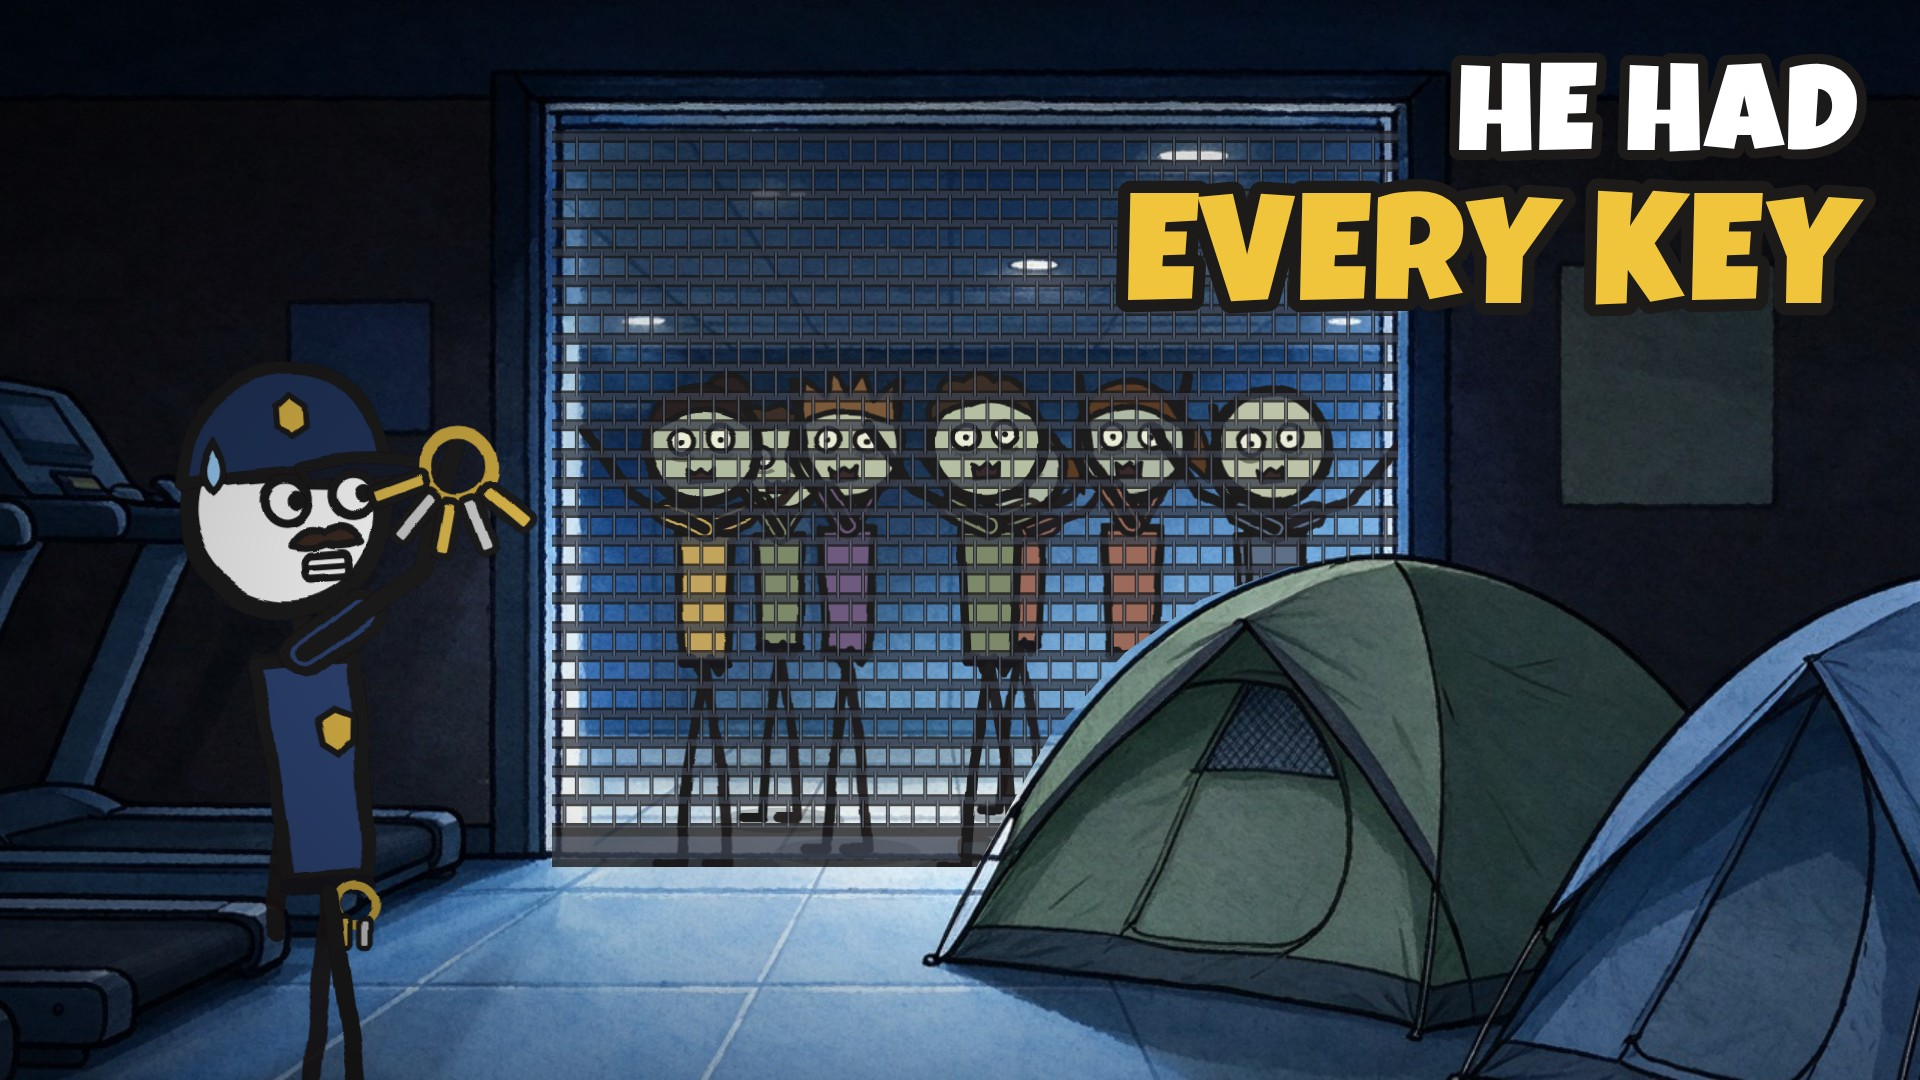
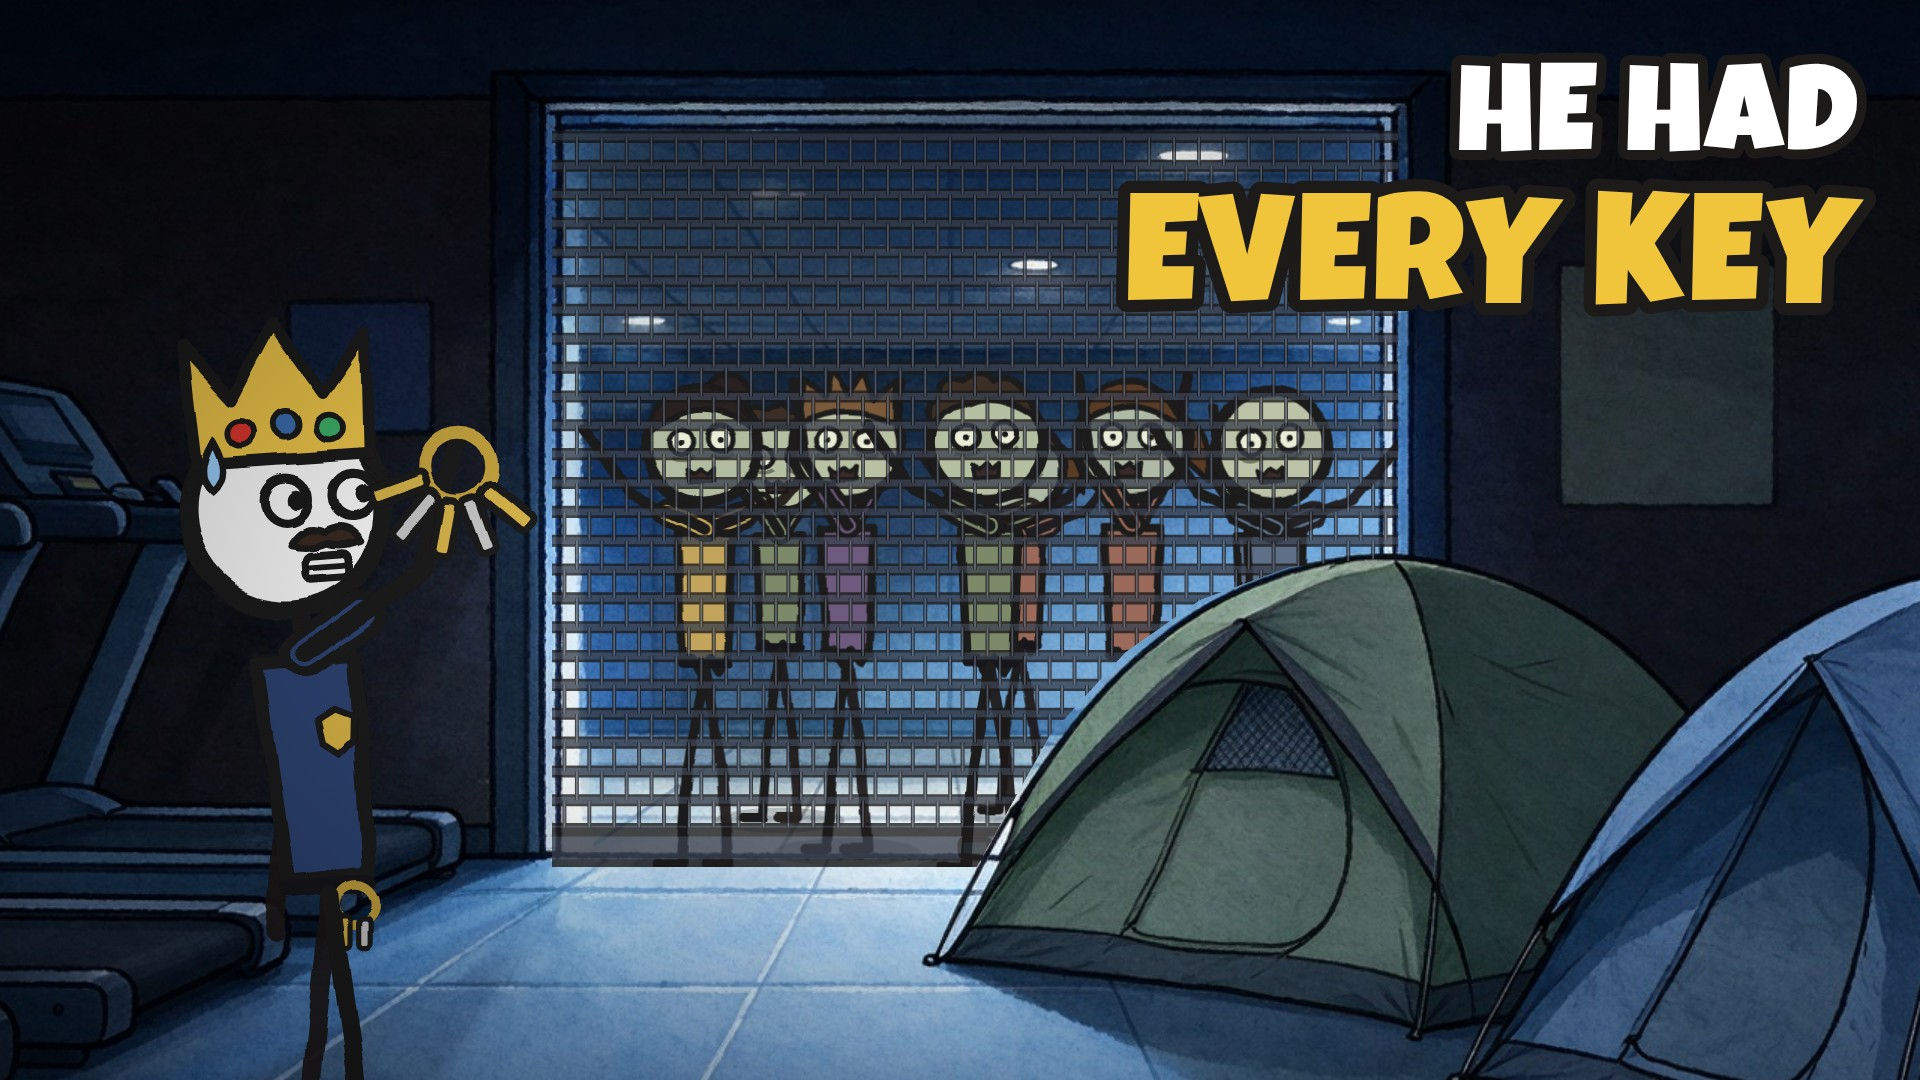
Update README, upload details and thumbnail for the v2 pilot
- README: the v2 story, what changed after the first test, the directed
  Gemini voice pipeline and its checks, costs for both versions
- publish/mall-pilot-upload.md: new title options, description and chapters
- thumbnail: Danny wears Lily's paper crown

Claude-Session: https://claude.ai/code/session_01L5ympxsUwkNVD2DNao6gpG

Changed region(s): [[0.0938, 0.3056, 0.2188, 0.4583]]

diff --git a/src/mall/Thumb.tsx b/src/mall/Thumb.tsx
@@ -3,7 +3,7 @@ import {AbsoluteFill} from 'remotion';
 import {useFont} from '../thumbs/Thumbs';
 import {Screen, Txt, W} from './Overlays';
 import {Beyond, Crowd, Guard, HoldGate, Scene} from './shots';
-import {POSES} from './Stick';
+import {LOOKS, POSES} from './Stick';
 
 // YouTube thumbnail: the guard with his keys, faces at the gate behind him.
 export const MallThumb: React.FC = () => {
@@ -33,6 +33,7 @@ export const MallThumb: React.FC = () => {
           x={1000}
           y={1185}
           h={575}
+          look={LOOKS.dannyCrown}
           face={1}
           pose={{...POSES.holdUp, lean: -6, head: -4, armN: [125, 165]}}
           propN="keys"

diff --git a/README.md b/README.md
@@ -69,18 +69,23 @@ The pigeon is a puppet. Its head, neck and body are cut from one AI picture, and
 
 ![Four frames from the mall pilot: the night guard walking the empty mall with his flashlight; a security camera showing a crowd coming up the garage ramp; the sporting goods store behind its steel gate with "ONE WAY IN"; zombie faces pressed against the gate](docs/mall-storyboard.jpg)
 
-This is a test of a second format: a long stick-figure survival story told in still pictures, like the "30 days locked inside…" videos. A new picture lands every 2–3 seconds, cut on the exact word, under a first-person voice-over. The pilot is the 2½-minute cold open of a longer episode, in 16:9 at 1080p.
+This is a test of a second format: a long stick-figure survival story told in still pictures, like the "30 days locked inside…" videos. A new picture lands every 2–3 seconds, cut on the exact word, under a first-person voice-over. The pilot is the 4½-minute opening of a longer episode, in 16:9 at 1080p.
 
-**The story:** a night security guard walks the same loop around Maplecrest Mall (a made-up mall) every night with a flashlight, a radio and a ring of 42 keys, one for every store. At 1:40 a.m. his partner Marcus radios about a man walking strangely up the garage ramp, and then goes quiet. The cameras show the crowd heading for the food court's glass doors. The guard has a few minutes to pick one store to lock himself in. He weighs the pharmacy, the food court and the department store, and picks the sporting goods store because it has only one way in. Then Marcus presses his face against the gate, still wearing his radio, and a stranger's voice comes over both radios.
+**The story (v2):** "The dead man pressing his face against my gate used to be my best friend." The cold open starts at the worst moment, then rewinds an hour. Danny Ruiz is the night guard at Maplecrest Mall (a made-up mall). He works nights so he's home when his daughter Lily gets off the school bus, and she calls him the king of the mall because he has 42 keys, one for every store. At 1 a.m. his friend Marcus, a 22-year-old nursing student, usually radios with a terrible joke. Tonight Marcus whispers about a man walking wrong up the garage ramp, then goes silent. The glass food court won't hold, and Danny has four minutes to pick one store to lock himself in. He picks the sporting goods store, then Marcus's radio and his own give him away. It ends on "hour 1 of 720" and a woman on the radio who "would turn out to be the most dangerous person in it."
+
+**What changed after the first test** (feedback: more hooks, a better voice, a lead people connect with):
+- **Script:** the cold open, a re-hook every 20–30 seconds, a visible four-minute countdown, and a lead with a life (a daughter, a friend worth losing, a dry sense of humor). The first script is kept as `images/mall/script-v1.md`.
+- **Voice:** directed Gemini voices (`voice_gemini.py`) replace the flat local voice. See below.
+- **New pictures:** a sunny bus-stop background, Lily, Danny at home, a paper crown, Lily's crayon drawing, the series title and end cards, a name tag, Black Friday shoppers against the same lot full of zombies, and a sepia memory insert.
 
 **How it differs from the Shorts:**
-- **Backgrounds:** 9 night scenes from Seedream 5 Flash on Kie.ai (2K, 3.24 credits each, all used on the first try). The prompts are in `images/mall/prompts.json`.
-- **Characters drawn in code:** there are no AI pictures of characters. The stick figures, zombies, props, the mall map, labels, the security-camera look and the stores' steel gates are all drawn in code (`src/mall/`). So the guard looks identical in every shot, and a new shot costs nothing.
-- **Shots cued by words:** `src/mall/shots.tsx` lists 70 shots, and each starts on a phrase from the narration ("cut just before *Glass doors*"). `timing.ts` turns the phrases into times using the word timings, so a new voice-over re-times every cut by itself.
-- **Voice:** ElevenLabs on Kie.ai timed out on every request the night it was made. The pilot therefore uses [Kokoro](https://github.com/hexgrad/kokoro), an open-source voice model that runs locally for free, with three voices: the narrator, Marcus and the woman on the radio. The radio lines go through a walkie-talkie filter.
-- **Sound:** 13 effects and ambience loops from Suno sounds on Kie.ai (2.5 credits per request, two takes each), mixed in `src/mall/Sfx.tsx`.
+- **Backgrounds:** 10 scenes from Seedream 5 Flash on Kie.ai (2K, 3.24 credits each, all used on the first try). The prompts are in `images/mall/prompts.json`.
+- **Characters drawn in code:** there are no AI pictures of characters. The stick figures (with front and back views, a child version, crown, backpack and book), zombies, props, the mall map, labels, cards, the security-camera look and the stores' steel gates are all drawn in code (`src/mall/`). So Danny looks identical in every shot, and a new shot costs nothing.
+- **Shots cued by words:** `src/mall/shots.tsx` lists 86 shots, and each starts on a phrase from the narration ("cut just before *Glass doors*"). `timing.ts` turns the phrases into times using the word timings, so a new voice-over re-times every cut by itself.
+- **Voice:** ElevenLabs on Kie.ai timed out on every request for hours (all refunded), so v2 uses Gemini 3.1 Flash TTS on Kie.ai. Each line is one short take with a voice, a style (Whisper, Deadpan, Vocal Smile…), a pace, a written character profile and inline tags such as `[whispers]`. Gemini sometimes cuts a take short, drops words or adds some, so every take is transcribed and compared with the script, and a take that doesn't match is recorded again; `--check` re-checks saved takes. Long pauses inside takes are shortened and the pace is lifted 6%. The voices are Algenib (Danny), Puck (Marcus) and Achernar (the woman); auditions of the alternatives are in `images/mall/vo/audition/`.
+- **Sound:** 18 effects and ambience loops from Suno sounds on Kie.ai (2.5 credits per request, two takes each) plus a synthesized clock tick, mixed in `src/mall/Sfx.tsx`.
 
-**Cost:** 64 Kie.ai credits, about $0.32. That's 32 credits for backgrounds (including one model comparison) and 32 for sounds; the voice was free. A 40-minute episode would use the same pipeline. It needs about 6,000 words, roughly 1,000 shots and maybe 40 more backgrounds, so pictures and sound would cost a dollar or two, plus about 400 credits ($2) if it's voiced with ElevenLabs. Most of the work is writing the script and the shot list.
+**Cost:** about 130 Kie.ai credits ($0.65) for both versions together. That's 35 credits for backgrounds, 45 for sounds, about 29 for the v2 narration and 22 for voice auditions. A 40-minute episode would use the same pipeline. It needs about 6,000 words, roughly 1,000 shots and maybe 40 more backgrounds, so pictures, sound and Gemini narration would cost a few dollars. Most of the work is writing the script and the shot list.
 
 The upload details are in `publish/mall-pilot-upload.md` and the thumbnail is `thumbnails/mall-pilot-thumbnail.jpg`.
 
@@ -158,19 +163,22 @@ npx remotion still src/index.ts ChannelPicture publish/channel-picture.png
 Render the mall pilot (1080p, 30 fps) and its thumbnail:
 
 ```bash
-npx remotion render src/index.ts MallPilot out/mall-pilot-1080p.mp4 --crf=18 --pixel-format=yuv420p --audio-bitrate=256k
-bash images/mall/finish.sh out/mall-pilot-1080p.mp4 out/mall-pilot.mp4   # loudness to -15 LUFS, smaller re-encode for upload
+npx remotion render src/index.ts MallPilot out/mall-pilot-v2-1080p.mp4 --crf=18 --pixel-format=yuv420p --audio-bitrate=256k
+bash images/mall/finish.sh out/mall-pilot-v2-1080p.mp4 out/mall-pilot-v2.mp4   # loudness to -15 LUFS, smaller re-encode for upload
 npx remotion still src/index.ts MallThumb out/mall-thumb.png
 ```
 
-To re-voice the pilot, build a new voice track and word timings, then render again. Every cut follows the new timings by itself:
+To re-voice the pilot, change the voices or lines in `images/mall/vo/v2/plan.json`, delete the takes you want recorded again from `vo/v2/takes/`, rebuild the voice track and word timings, then render again. Every cut follows the new timings by itself:
 
 ```bash
 cd images/mall
-python3 voice_local.py kokoro-v1.0.onnx voices-v1.0.bin vo/local          # Kokoro model files from github.com/thewh1teagle/kokoro-onnx releases
-python3 align.py vo/local/vo.wav vo/local/segments.json ../../src/mall/words.json
-ffmpeg -i vo/local/vo.wav -af loudnorm=I=-16:TP=-1.5 -b:a 192k ../../public/mall/vo/vo.mp3
+python3 voice_gemini.py vo/v2/plan.json vo/v2            # records missing takes, checks each against the script, builds vo.wav
+python3 voice_gemini.py vo/v2/plan.json vo/v2 --check    # re-check every saved take without recording
+python3 align.py vo/v2/vo.wav vo/v2/segments.json ../../src/mall/words.json
+ffmpeg -i vo/v2/vo.wav -af loudnorm=I=-16:TP=-1.5 -b:a 192k ../../public/mall/vo/vo.mp3
 ```
+
+The first test's free local voice is still available: `voice_local.py` (Kokoro, model files from the kokoro-onnx releases on GitHub) writes the same `vo.wav` and `segments.json`.
 
 Check a render:
 
@@ -204,8 +212,8 @@ These scripts live in `images/pigeon/scripts/`, with the hurricane's own `prep.p
 | Pictures | GPT Image 2.5 Flare through [Kie.ai](https://kie.ai/), 2K, on a flat key-colour background |
 | Voice | ElevenLabs premade voice "Chris", generated through [vidIQ](https://vidiq.com/) |
 | Mall pilot backgrounds | Seedream 5 Flash through Kie.ai, 2K, 16:9 |
-| Mall pilot voice | [Kokoro](https://github.com/hexgrad/kokoro) via [kokoro-onnx](https://github.com/thewh1teagle/kokoro-onnx), open source, runs locally (ElevenLabs on Kie.ai was down) |
-| Mall pilot sound effects | Suno sounds (V6) through Kie.ai |
+| Mall pilot voice | Gemini 3.1 Flash TTS through Kie.ai (v2); [Kokoro](https://github.com/hexgrad/kokoro) via [kokoro-onnx](https://github.com/thewh1teagle/kokoro-onnx), open source and local, for the first test |
+| Mall pilot sound effects | Suno sounds (V6) through Kie.ai, plus a synthesized clock tick |
 | Word timings | [faster-whisper](https://github.com/SYSTRAN/faster-whisper) |
 | Sound effects | Mostly synthesized with numpy. The pigeon's street and treadmill ambience was generated with Suno through Kie.ai. |
 | Titles | vidIQ title ideas and scores |

diff --git a/publish/mall-pilot-upload.md b/publish/mall-pilot-upload.md
@@ -1,34 +1,37 @@
-# Upload details: mall pilot
+# Upload details: mall pilot (v2)
 
-**File:** `out/mall-pilot.mp4` (render it with the commands in the README: 1920×1080, 30 fps, 2:38, −15 LUFS) · **Thumbnail:** `thumbnails/mall-pilot-thumbnail.jpg`
+**File:** `out/mall-pilot-v2.mp4` (render it with the commands in the README: 1920×1080, 30 fps, about 4:27, −15 LUFS) · **Thumbnail:** `thumbnails/mall-pilot-thumbnail.jpg`
 
-The pilot uses the free local Kokoro voice, because ElevenLabs on Kie.ai was down when it was made. If it's re-voiced, the cuts follow the new voice automatically, but the chapter times below have to be read again from the new render.
+The voices are Gemini voices on Kie.ai: Algenib for Danny, Puck for Marcus and Achernar for the woman on the radio. If it's re-voiced, the cuts follow the new voice automatically, but the chapter times below have to be read again from the new render.
 
-Upload as **Private** or **Unlisted** first. It's a pilot: a test of the format and the look before committing to a full 40-minute episode.
+Upload as **Private** or **Unlisted** first. It's a pilot: a test of the format, the look and the voice before committing to a full 40-minute episode.
 
 ---
 
 **Title**
 ```
-Zombie Outbreak: Locked in a Mall With Every Key
+The Night Guard Had Every Key | Zombie Outbreak in a Mall
 ```
 
 Other options:
-- The Night Guard Had Every Key (Zombie Outbreak in a Mall)
-- Zombie Outbreak: I Had Minutes to Pick One Store
+- Zombie Outbreak: I Had 42 Keys and 4 Minutes to Pick One Store
+- My Best Friend Was at the Gate (Zombie Outbreak in a Mall)
 
 **Description**
 ```
-It's 1:40 a.m. at Maplecrest Mall. The night guard has a flashlight, a radio and a ring of 42 keys, one for every store. Then the garage camera shows his partner on the ground and a crowd coming up the ramp, and he has minutes to pick one store and lock himself in.
+"The dead man pressing his face against my gate used to be my best friend."
 
-Glass walls. Glass doors. A freezer full of food right where they're coming in. Which store would you have picked?
+Danny Ruiz is the night guard at Maplecrest Mall. He works nights so he can be home when his daughter gets off the school bus, and he has 42 keys, one for every store. At 1:40 a.m. his friend Marcus radios from the parking garage about a man walking wrong up the ramp. Then the radio goes silent.
+
+The food court is made of glass. Danny has four minutes to pick one store and lock himself in. Which one would you have picked?
 
 Chapters
-0:00 The Loop
-0:30 The Ramp
-0:57 Glass
-1:23 Shopping
-1:52 The Gate
+0:00 Cold open
+0:25 The King of the Mall
+1:09 The Ramp
+2:01 Glass
+2:37 Four Minutes
+3:13 The Gate
 
 #zombieoutbreak #survivalstory #stickman
 ```
